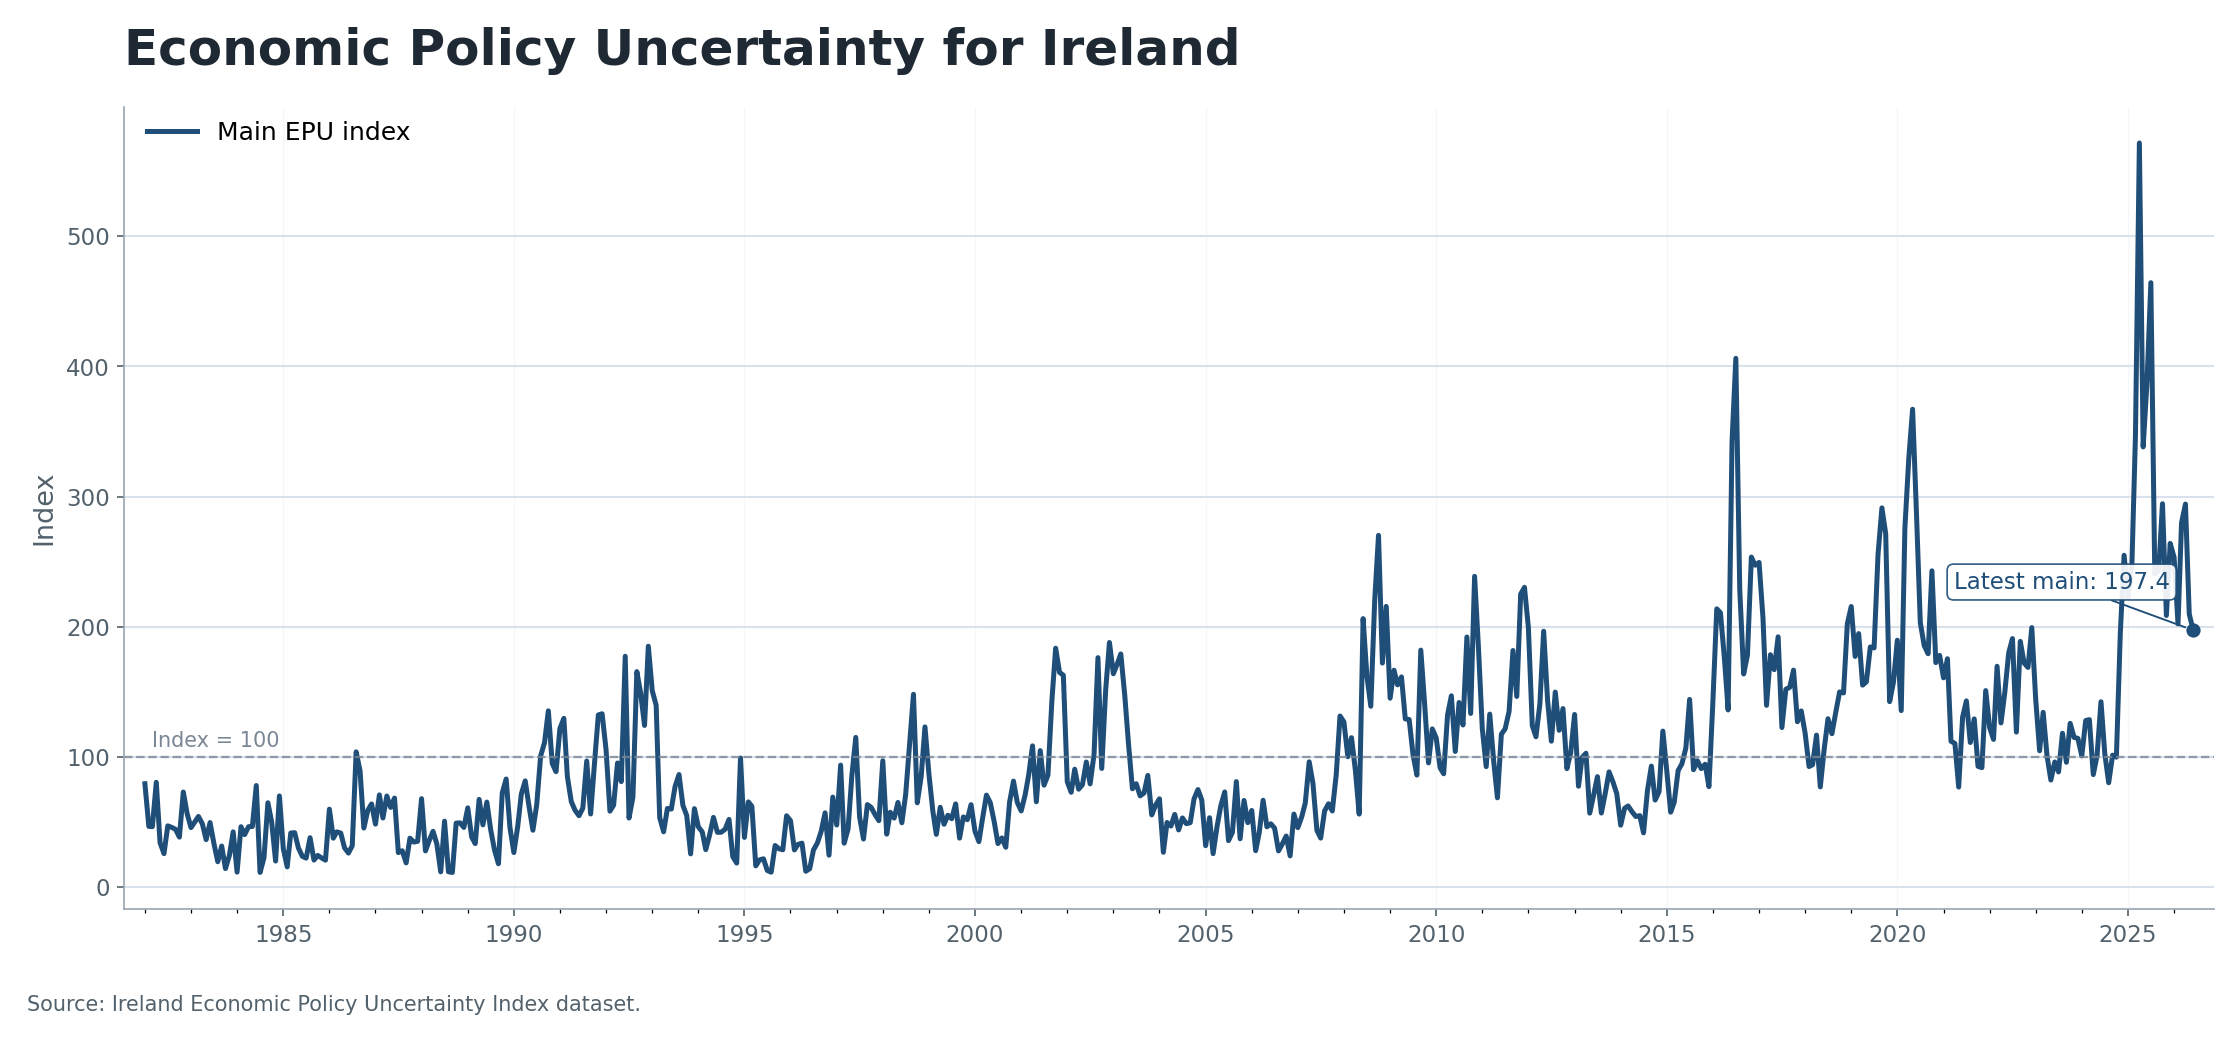
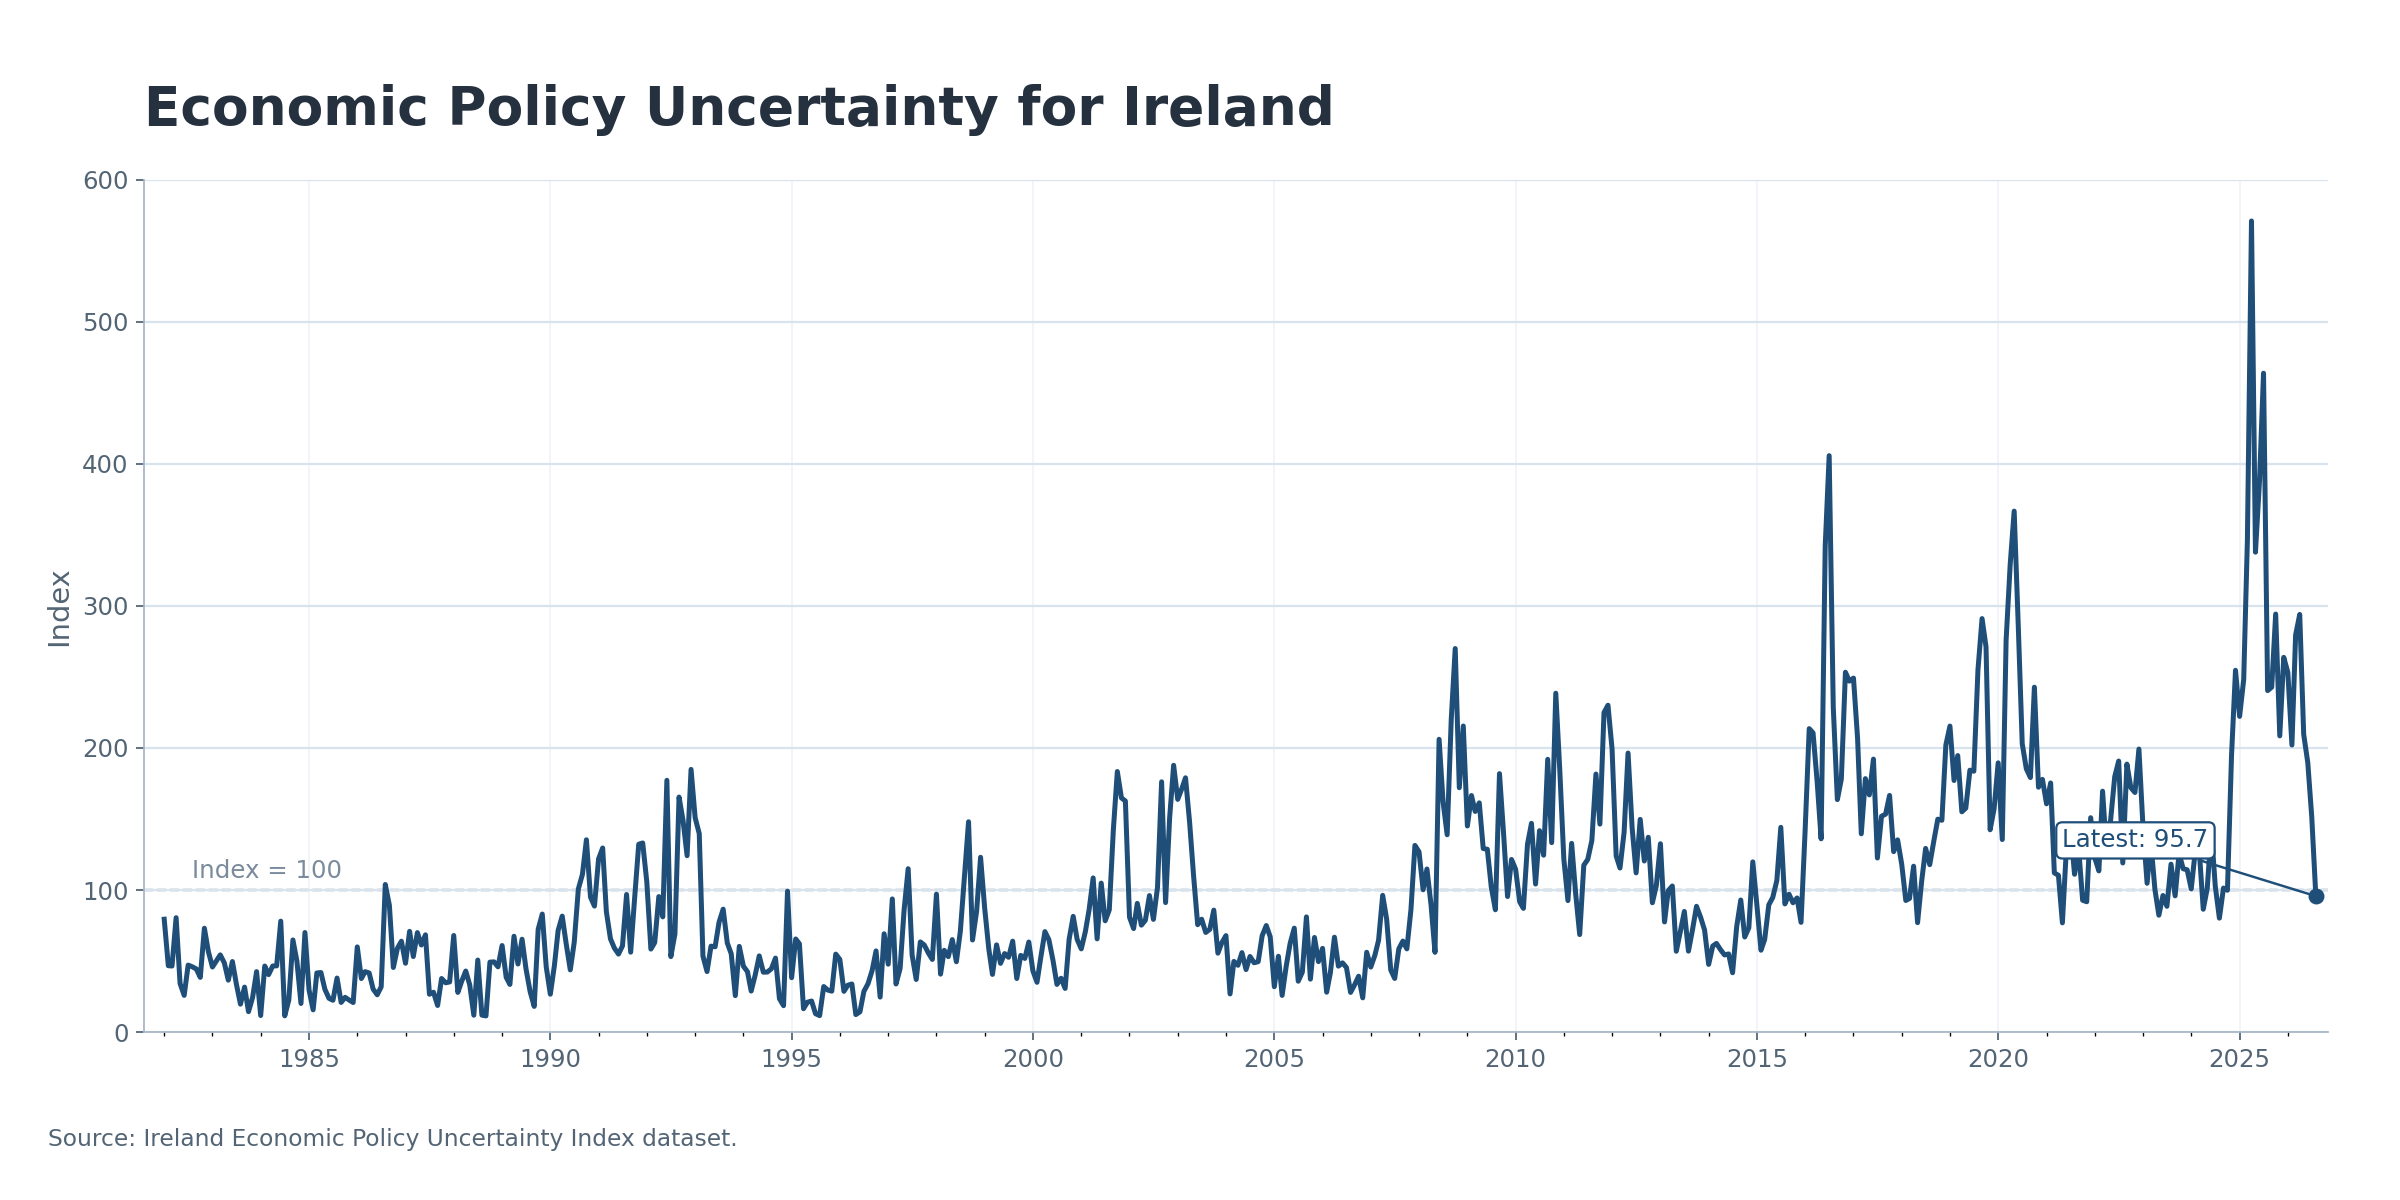
Update EPU data and add 2026 policy contribution

diff --git a/docs/data.html b/docs/data.html
@@ -165,7 +165,7 @@ ul.task-list li input[type="checkbox"] {
 <h2 class="anchored" data-anchor-id="irish-economic-policy-uncertainty-data">Irish Economic Policy Uncertainty data</h2>
 <p>This page provides the data that underpin my work on Irish economic policy uncertainty, including the paper <em>Economic Policy Uncertainty Shocks in Small Open Economies: A Case Study of Ireland</em>.</p>
 <p>The series are hosted externally by the Economic Policy Uncertainty project and are mirrored here for convenience.</p>
-<p><strong>Latest mirrored update:</strong> 25 June 2026. The main EPU series is updated through June 2026 using data through 25 June; the domestic component is updated through November 2025, reflecting the latest available all-country input panel used for the domestic-series estimation.</p>
+<p><strong>Latest mirrored update:</strong> 21 August 2026. The main EPU series is updated through August 2026 using data through 21 August; the domestic component is updated through July 2026, reflecting the latest available all-country input panel used for the domestic-series estimation.</p>
 <section id="download" class="level3">
 <h3 class="anchored" data-anchor-id="download">Download</h3>
 <p><a href="files/ireland-epu-index.xlsx">Download the Ireland Economic Policy Uncertainty dataset (Excel)</a></p>

diff --git a/docs/research.html b/docs/research.html
@@ -193,6 +193,9 @@ Jonathan Rice, Juan Rubio Ramirez</p>
 </div>
 <div id="tabset-1-3" class="tab-pane" role="tabpanel" aria-labelledby="tabset-1-3-tab">
 <div class="pub-item">
+<p><strong>Tracing energy shocks through the Irish supply chain: A new monitoring framework</strong> (2026)<br> Katie Bourke, Jonathan Rice<br> Central Bank of Ireland, <em>Central Bank Staff Insights</em> 7/SI/26<br> <span class="pub-links"> <a href="https://www.centralbank.ie/publication/research-publications/staff-insights/tracing-energy-shocks-through-the-irish-supply-chain--a-new-monitoring-framework">Staff Insight</a> <a href="https://ideas.repec.org/p/cbi/stafin/7-si-26.html">RePEc</a> </span></p>
+</div>
+<div class="pub-item">
 <p><strong>AI-related imports, modified investment and the data centre build-out</strong> (2026)<br>
 Jonathan Rice, John Scally<br>
 Central Bank of Ireland, <em>Quarterly Bulletin</em> No.&nbsp;2 2026 (Box A)<br>
